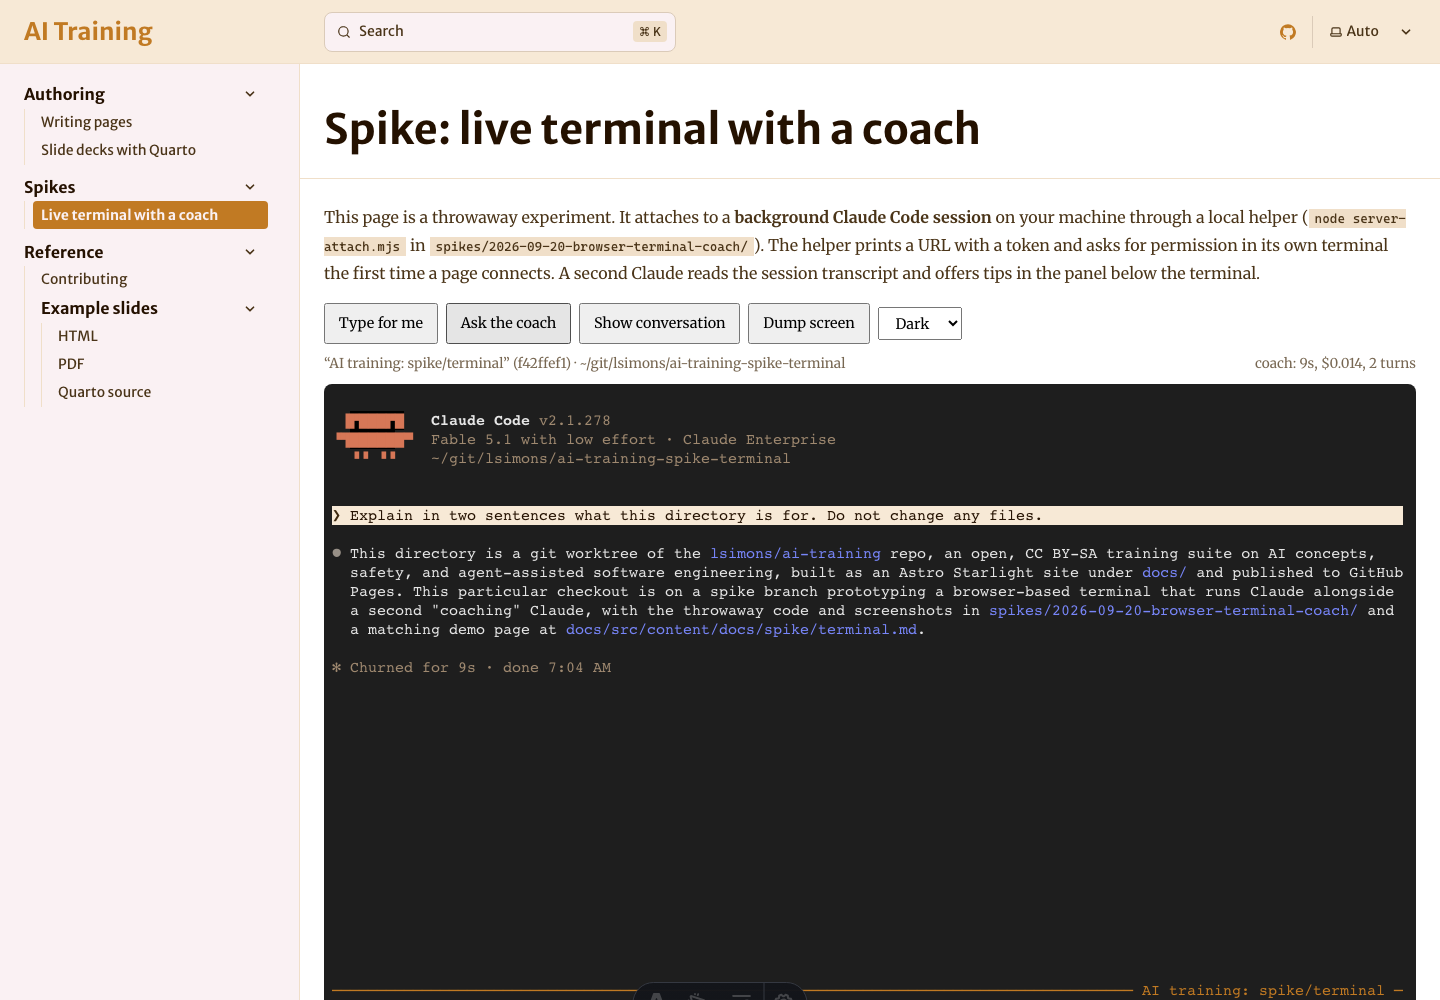
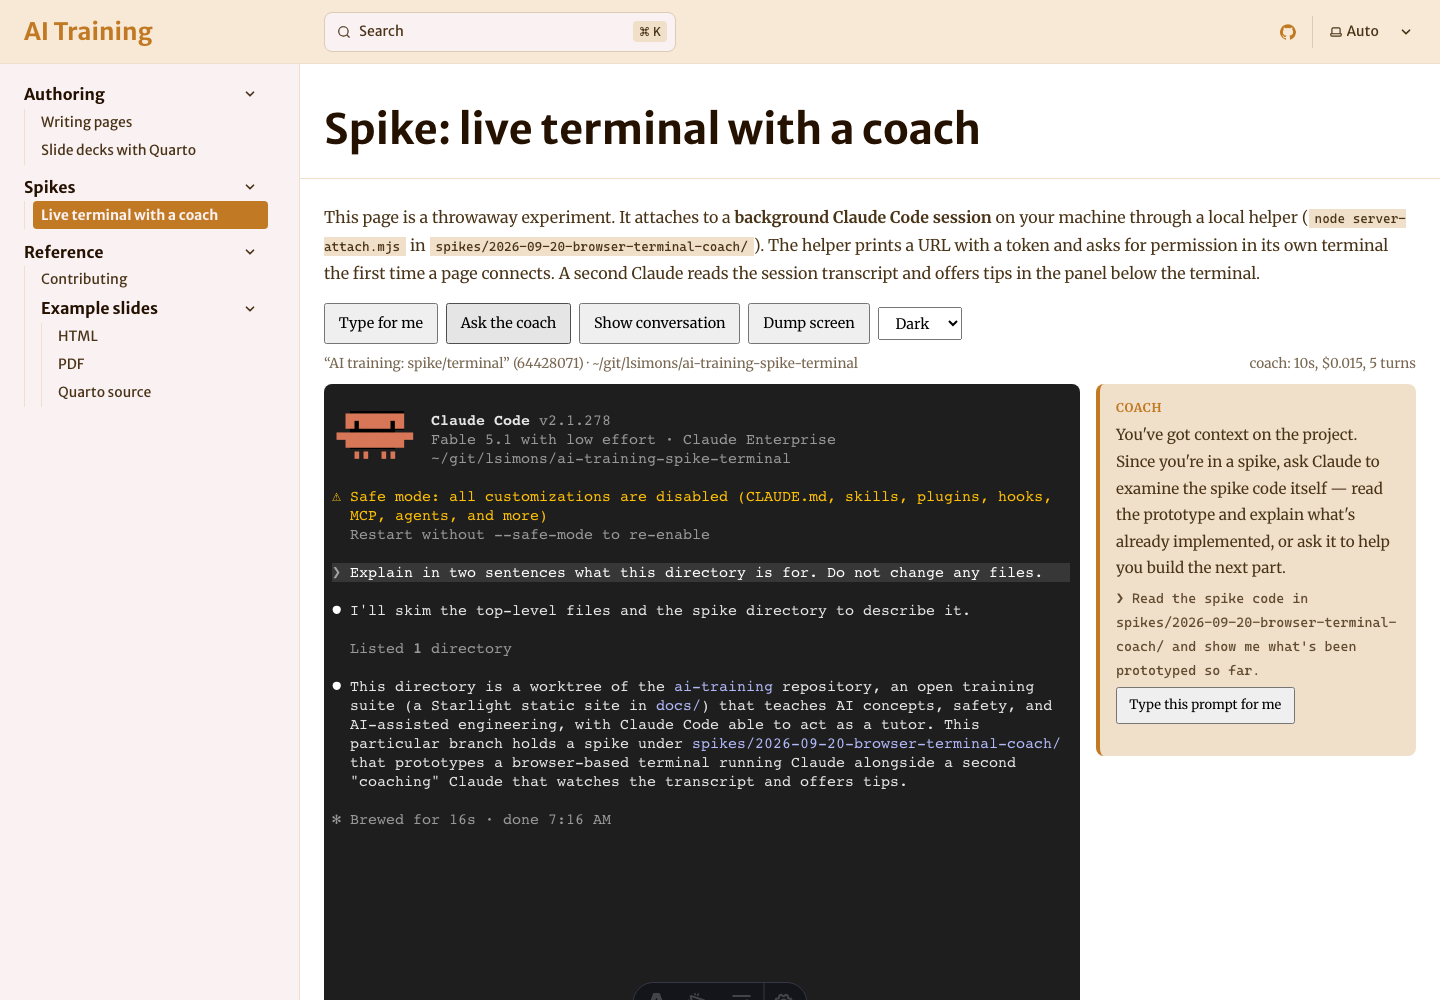
feat(spike): controlled session flags (safe-mode, manual, fable low), coach column
Assisted-by: Claude:claude-fable-5-1

Changed region(s): [[0.2188, 0.341, 1.0, 1.0], [0.3438, 0.341, 0.5938, 0.372], [0.3125, 0.434, 0.5625, 0.465]]

diff --git a/docs/src/content/docs/spike/terminal.md b/docs/src/content/docs/spike/terminal.md
@@ -14,21 +14,26 @@ the terminal.
   <link rel="stylesheet" href="https://cdn.jsdelivr.net/npm/@xterm/xterm@5.5.0/css/xterm.min.css" />
   <style>
     /* Widen this page only: hide the right rail's reserved space. */
-    :root:has(#spike-term-root) { --sl-content-width: 72rem; }
+    :root:has(#spike-term-root) { --sl-content-width: 96rem; }
     :root:has(#spike-term-root) .right-sidebar-container { display: none; }
     #spike-term-toolbar { display: flex; gap: .5rem; margin: .5rem 0; flex-wrap: wrap; align-items: center; }
     #spike-term-toolbar button, #spike-term-toolbar select { padding: .35rem .8rem; cursor: pointer; font: inherit; font-size: .9em; }
     #spike-term-status { font-size: .85em; opacity: .75; margin-left: auto; }
     #spike-term-session { font-size: .85em; opacity: .75; }
+    #spike-layout { display: grid; grid-template-columns: minmax(0, 1fr) 20rem; gap: 1rem; align-items: start; }
+    @media (max-width: 72rem) { #spike-layout { grid-template-columns: 1fr; } }
     #spike-term { height: 70vh; min-height: 480px; border-radius: 8px; padding: 8px 0 0 8px; box-sizing: border-box; }
     #spike-term .xterm { height: 100%; }
     #spike-term.light { background: #ffffff; border: 1px solid #ddd; }
     #spike-term.dark { background: #1e1e1e; }
     #spike-coach {
-      margin-top: .75rem; padding: .8rem 1rem; border-radius: 8px; display: none;
-      background: var(--sl-color-gray-6); border-left: 4px solid var(--sl-color-accent);
+      position: sticky; top: 5rem; padding: .8rem 1rem; border-radius: 8px; max-height: 70vh; overflow: auto;
+      background: var(--sl-color-gray-6); border-left: 4px solid var(--sl-color-accent); font-size: .95em;
     }
-    #spike-coach.show { display: block; }
+    #spike-coach .empty { opacity: .6; font-style: italic; }
+    #spike-coach .entry { padding-bottom: .6rem; margin-bottom: .6rem; border-bottom: 1px solid var(--sl-color-gray-5); }
+    #spike-coach .entry:last-child { border-bottom: 0; }
+    #spike-coach .entry.old { opacity: .55; }
     #spike-coach .who { font-weight: 700; font-size: .8em; text-transform: uppercase; letter-spacing: .05em; color: var(--sl-color-accent); }
     #spike-coach .tip { margin: .3rem 0; }
     #spike-coach .prompt { font-family: var(--__sl-font-mono); font-size: .9em; opacity: .85; margin: .3rem 0; }
@@ -48,8 +53,10 @@ the terminal.
     <span id="spike-term-session"></span>
     <span id="spike-term-status">connecting…</span>
   </div>
-  <div id="spike-term"></div>
-  <div id="spike-coach"><div class="who">Coach</div><div class="tip"></div><div class="prompt" hidden></div><button class="use" hidden>Type this prompt for me</button><button class="dismiss">Dismiss</button></div>
+  <div id="spike-layout">
+    <div id="spike-term"></div>
+    <aside id="spike-coach"><div class="who">Coach</div><div id="spike-coach-entries"><div class="empty">Waiting: ask, or pause for 20 seconds after a reply.</div></div></aside>
+  </div>
   <pre id="spike-screen-dump" hidden></pre>
   <script type="module">
     import { Terminal } from 'https://cdn.jsdelivr.net/npm/@xterm/xterm@5.5.0/+esm';
@@ -108,16 +115,21 @@ the terminal.
     $('btn-token').onclick = () => { token = $('spike-token-input').value.trim(); sessionStorage.setItem('spike-token', token); connect(); };
     connect();
     // --- coach panel (docked, never covers the terminal) ----------------------
-    const coach = $('spike-coach');
-    function showCoach(m) {
-      coach.querySelector('.tip').textContent = m.tip; suggested = m.suggestedPrompt || null;
-      const p = coach.querySelector('.prompt'); p.hidden = !suggested; p.textContent = suggested ? '❯ ' + suggested : '';
-      coach.querySelector('.use').hidden = !suggested; coach.classList.add('show');
-    }
-    coach.querySelector('.dismiss').onclick = () => coach.classList.remove('show');
     // Typing never presses Enter: the learner reads the prompt and sends it.
     const typeFor = (text) => { send({ type: 'type-for-me', text, submit: false }); term.focus(); };
-    coach.querySelector('.use').onclick = () => typeFor(suggested);
+    const entries = $('spike-coach-entries');
+    function showCoach(m) {
+      entries.querySelector('.empty')?.remove();
+      for (const e of entries.children) e.classList.add('old');
+      suggested = m.suggestedPrompt || null;
+      const e = document.createElement('div'); e.className = 'entry';
+      const tip = document.createElement('div'); tip.className = 'tip'; tip.textContent = m.tip; e.append(tip);
+      if (suggested) {
+        const p = document.createElement('div'); p.className = 'prompt'; p.textContent = '❯ ' + suggested; e.append(p);
+        const b = document.createElement('button'); b.textContent = 'Type this prompt for me'; b.onclick = () => typeFor(suggested); e.append(b);
+      }
+      entries.prepend(e);
+    }
     $('btn-type').onclick = () => typeFor(suggested || 'Explain in two sentences what this directory is for. Do not change any files.');
     $('btn-coach').onclick = () => send({ type: 'coach' });
     $('btn-conv').onclick = () => send({ type: 'conversation' });

diff --git a/spikes/2026-09-20-browser-terminal-coach/README.md b/spikes/2026-09-20-browser-terminal-coach/README.md
@@ -144,6 +144,20 @@ node spikes/2026-09-20-browser-terminal-coach/server-attach.mjs   # foreground: 
 claude stop <id>                                                   # the session outlives the page
 ```
 
+Round 3 (variance control + layout): sessions now start with
+`--safe-mode --permission-mode manual --model claude-fable-5-1 --effort low --strict-mcp-config --no-chrome` (override with `SPIKE_CLAUDE_FLAGS`). Safe mode
+disables CLAUDE.md, skills, plugins, hooks, MCP and agents, and Claude Code says
+so in a banner the learner sees. Manual mode means every tool call asks, which
+is what a first-time learner should experience and what the coach can comment
+on. The coach panel moved to a sticky column right of the terminal, keeps a
+history with older tips dimmed, and the terminal narrows to ~82 columns at
+1440px, which Claude Code handles fine. Other flags reviewed and not used:
+`--restricted` (removes Bash entirely, too much for a Claude Code lesson),
+`--bare` (also skips auth keychain reads), `--disable-slash-commands`
+(learners should meet `/help`), `--append-system-prompt` (tempting for lesson
+framing; left for a later spike), `--max-budget-usd` (worth adding for
+learners on their own keys).
+
 Gotcha found: blank lines inside the widget's `<div>` end the Markdown HTML
 block and the rest of the script renders as a code figure. Keep widget blocks
 free of blank lines.
